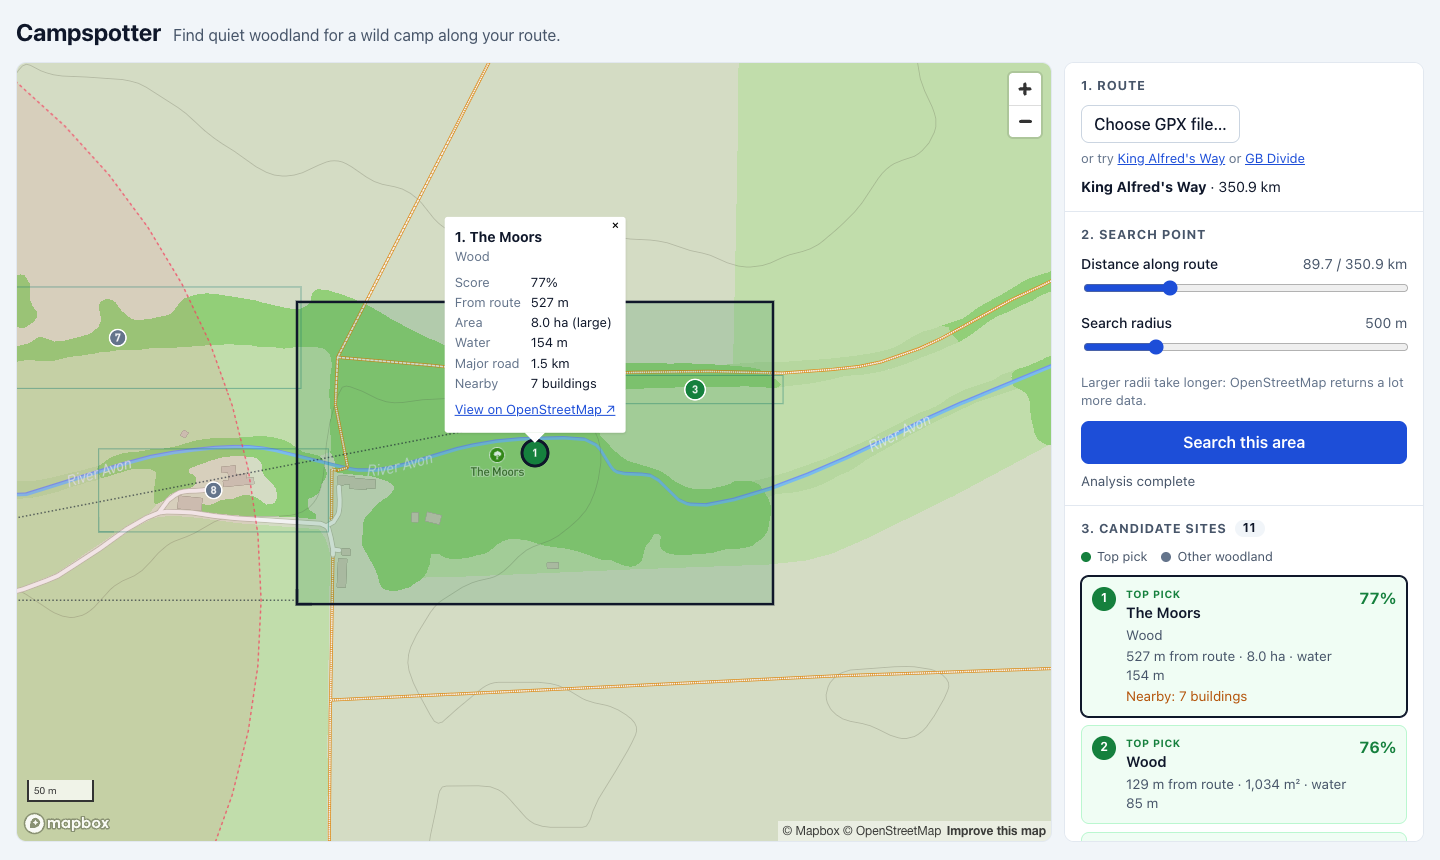
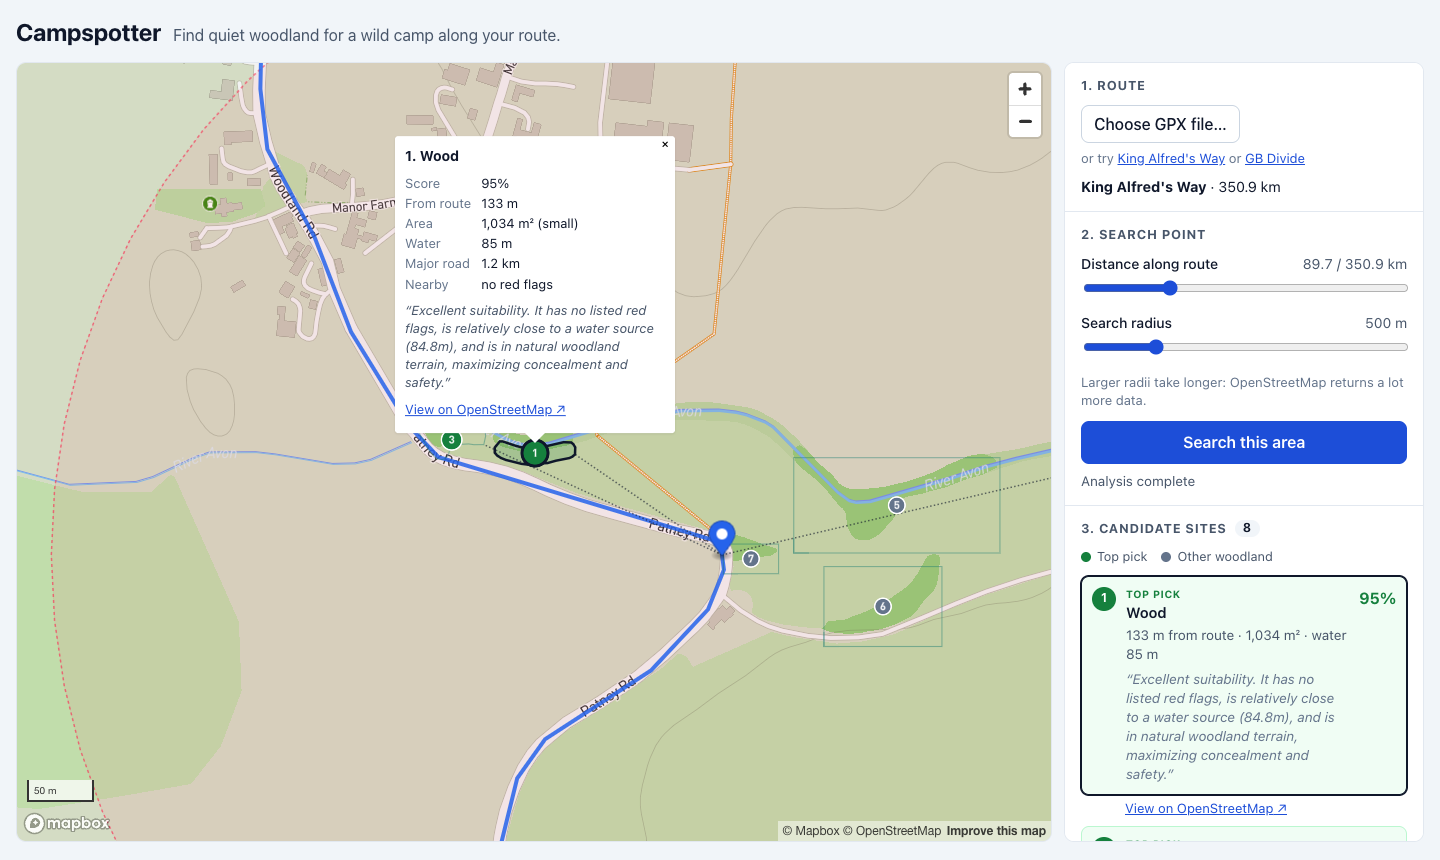
Update README screenshots and mention cancelling
- New screenshots from a real search on the King Alfred's Way with the
  local LLM (safe-gemma): LLM scores and reasons, real woodland outlines,
  and the "View on OpenStreetMap" link under the selected card.
- How to use: Cancel (or Esc) stops a running search.

diff --git a/README.md b/README.md
@@ -52,7 +52,8 @@ all the settings.
    keyboard (arrow keys) too.
 3. Optionally change the **Search radius** (default 500 m). Larger values are slower, because
    OpenStreetMap returns a lot more data.
-4. Click **Search this area**.
+4. Click **Search this area**. Changed your mind? **Cancel** (or Esc) stops the search, and the server stops
+   working on it too.
 
 Results stream in as each stage finishes:
 
